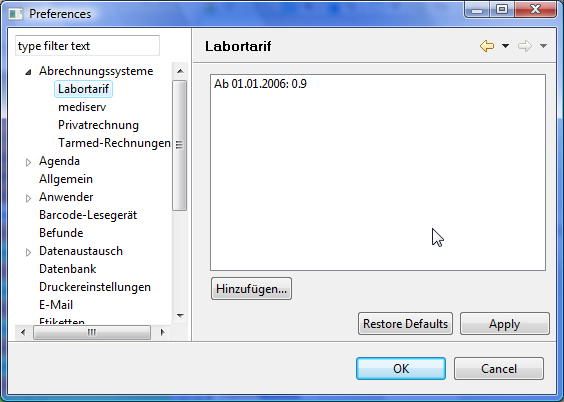
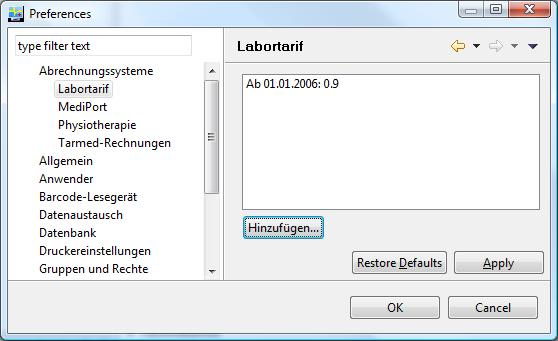
[svn] physiotarif von 1.4 übernommen

Changed region(s): [[0.0, 0.0, 1.0, 1.0], [0.7616, 0.5572, 0.7921, 0.6158], [0.3047, 0.7625, 0.3351, 0.7918]]

diff --git a/elexis-arzttarife-schweiz/doc/elexis-arzttarife-schweiz.tex b/elexis-arzttarife-schweiz/doc/elexis-arzttarife-schweiz.tex
@@ -6,7 +6,7 @@
 % * Contributors:
 % *    G. Weirich - initial implementation
 % *
-% *  $Id: elexis-arzttarife-schweiz.tex 4942 2009-01-13 17:48:53Z rgw_ch $
+% *  $Id: elexis-arzttarife-schweiz.tex 5156 2009-02-20 19:53:54Z rgw_ch $
 % *******************************************************************************/
 
 \documentclass[a4paper]{scrartcl}
@@ -90,6 +90,7 @@ Es sei an dieser Stelle nochmal darauf hingewiesen, dass diese Konfiguration nic
 \medskip
 
 \subsection{Abrechnungssysteme}
+\label{Abrechnungssysteme}
 \index{Abrechnungssystem}\index{UVG}\index{KVG}\index{VVG}\index{Privatrechnung}
 Die Leistungsverrechnung ist in Elexis als Plugin realisiert und damit auswechselbar oder auch ergänzbar - man kann nach Tarmed und nach CHOP, nach einem beliebigen Privatrechnungssystem und/oder nach einem österreichischen System abrechnen, das hängt nur davon ab, welche Plugins man installiert hat. Auch der Wechsel auf ein jetzt noch nicht bekanntes Tarifsystem ist damit kein Problem. Jedes Tarif-Plugin enthält das Codesystem selbst, sowie einen Mechanismus, um Rechnungen auszugeben, die zu diesem System konform sind (so muss eine Tarmed-Rechnung nicht nur andere Positionen beinhalten, sondern auch formal anders aussehen, als etwa eine Privatrechnung einer Heilpraktikerin). Ausserdem beinhaltet ein Abrechnungssystem je nachdem bestimmte Angaben, die vorhanden sein müssen, um Rechnungen erstellen zu können (z.B. Kostenträger, Versicherungsnummer u. Ä.)
 
@@ -134,14 +135,23 @@ Diese Zusammenhänge sind auch im Elexis-Handbuch beschrieben, genaueres bitte i
 
 \medskip
 
-Zurück zum Tarmed-System: Wenn das Plugin 'elexis-arzttarife-schweiz' installiert ist, finden Sie unter \textsc{Datei-Einstellungen-Abrechnungssysteme} auch die Positionen 'Labortarif' und 'Tarmed-Rechnungen' (S. Abb. \ref{fig:abr1}). Wählen Sie zunächst den Punkt Labortarife (Abb. \ref{fig:abr3}):
+Zurück zum Tarmed-System: Wenn das Plugin 'elexis-arzttarife-schweiz' installiert ist, finden Sie unter \textsc{Datei-Einstellungen-Abrechnungssysteme} auch die Positionen 'Labortarif', 'Physioterapie' und 'Tarmed-Rechnungen' (S. Abb. \ref{fig:abr1}). Wählen Sie zunächst den Punkt Labortarife (Abb. \ref{fig:abr3}):
 \begin{figure}
   % Requires \usepackage{graphicx}
-  \includegraphics{abr3}\\
+  \includegraphics[width=0.95\textwidth]{abr3}\\
   \caption{Labor-Taxpunkt}\label{fig:abr3}
 \end{figure}
 Hier muss der Multiplikator gleich wie bei den Abrechnungssystemen eingegeben werden. Auch hier kann ein einmal eingetragener Wert nicht mehr geändert werden und er ist ab dem Stichdatum bis zur nächsten Änderung gültig.
 \index{Taxpunkt}
+
+\medskip
+
+Für den Physiotherapie Tarif gehen Sie genau gleich vor wie beim Labortarif (Abb. \ref{fig:abr24}). Weitere Informationen finden Sie im Abschnitt \ref{physiotarif} auf Seite \pageref{physiotarif}
+\begin{figure}
+  % Requires \usepackage{graphicx}
+  \includegraphics[width=0.95\textwidth]{abr24}\\
+  \caption{Physio-Taxpunkt}\label{fig:abr24}
+\end{figure}
 
 \medskip
 
@@ -622,6 +632,45 @@ Die oft auch interessante Frage, 'Wo stehe ich finanziell mit diesem Patienten' 
 \item \textbf{WICHTIG: Beim ersten Mal und jedesmal wenn irgendetwas an der Konfiguration geändert wird, müssen mindestens die ersten paar Rechnungen von Hand kontrolliert werden. Stimmt der Taxpunkt? Stimmt die ESR-Zeile? Stimmt der Zahlungsempfänger? Stimmt die Kontonummer? usw.}
 
 \end{itemize}
+
+\section{Informationen zu den einzelnen Tarifen}
+\subsection{Physiotherapie}
+\label{physiotarif}
+\subsubsection{Abrechnungssystem}
+\begin{figure}
+  % Requires \usepackage{graphicx}
+  \includegraphics[width=0.95\textwidth]{abr25}\\
+  \caption{Physio-Abrechnungssystem}\label{fig:abr25}
+\end{figure}
+Wenn Sie elektronisch abrechnen und der Empfänger Ihrer XML Rechnungen Wert auf die Angabe der ausführenden oder verantwortlichen Person\footnote{siehe auch \href{http://www.forum-datenaustausch.ch/mdinvoicerequest_xml4.00_v1.2_d.pdf}{XMLInvoice Referenzhandbuch Arzt-Rechnung}, Seite 58} legt, dann können Sie optional ein entsprechendes Abrechnungssystem konfigurieren (siehe Abschnitt \ref{Abrechnungssysteme} auf Seite \pageref{Abrechnungssysteme})
+. Dabei können Sie die beiden XML Felder (ean provider, ean responsible) sowohl als Fallkonstante oder bei den Notwendigen Daten erfassen. Der Unterschied liegt darin, dass Fallkonstante automatisch in die Rechnung übernommen werden und die Notwendigen Daten pro Fall individuell erfasst werden müssen. Das Beispiel in Abb.\ref{fig:abr25} führt also die ausführende Person als Fallkonstante und die verantwortliche Person als Variable pro Fall.\linebreak
+Hinweis: Beachten Sie, dass Fallkonstanten in der aktuellen Elexis Version 1.4.1 weder gelöscht, noch geändert werden können. Bei allfälligen Schreibfehlern müssen Sie das Abrechnungssystem löschen und neu erstellen.
+\subsubsection{Stammdatenpflege}
+Der Physiotarif kann in der Perspektive Leistungen bearbeitet werden (Abb.\ref{fig:abr26}). Die Leistungspositionen können dort manuell hinzugefügt und bearbeitet oder auch mittels Dreiecksmenü als CSV importiert werden (siehe \href{http://www.elexis.ch/jp/index.php?option=content&task=view&id=57}{Downloads Stammdaten auf www.elexis.ch}).
+\begin{figure}
+  % Requires \usepackage{graphicx}
+  \includegraphics[width=0.95\textwidth]{abr26}\\
+  \caption{Physio-Tarif Stammdaten}\label{fig:abr26}
+\end{figure}
+\subsubsection{Taxpunkte}
+Damit die Behandlung der Taxpunkte in Elexis durchgängig gleich behandelt werden, erfolgt die Angabe der Anzahl Taxpunkte auch beim Physiotarif multipliziert mit 100. Für 24 Taxpunkte muss also 2400 eingegeben werden.
+\subsubsection{Spezialpositionen}
+Im Tarif sind nebst den herkömmlichen Leistungspositionen auch 2 Spezialfälle enthalten:
+\begin{flushleft}
+\begin{itemize}
+\item 
+Fixpreispositionen:\linebreak
+Bei den folgenden Positionen mutieren Sie bitte die Anzahl Taxpunkte so, dass bei der Multiplikation mit dem Multiplikator der gültige Frankenpreis resultiert. Aktuell gelten folgende Preise:\linebreak
+7362 Für Behandlung mit Vaginalsonde: CHF 50.--\linebreak
+7363 Für Behandlung mit Analsonde: CHF 90.--\linebreak
+Beispiel:\linebreak
+Multiplikator = 1.03\linebreak
+TP für 7362 = 50/1.03 = 48.54\linebreak
+Eingabe im Feld TP: 4854
+\item Zuschlagsposition für Mittel und Gegenstände resp. Verbandsmaterial:\linebreak
+Anstelle der Position 7360 aus dem Tarif verwenden Sie bitte die entsprechenden Artikel aus MiGeL
+\end{itemize}
+\end{flushleft}
 
 \section{Weitere Unterstützung}
 \subsection{Website}
